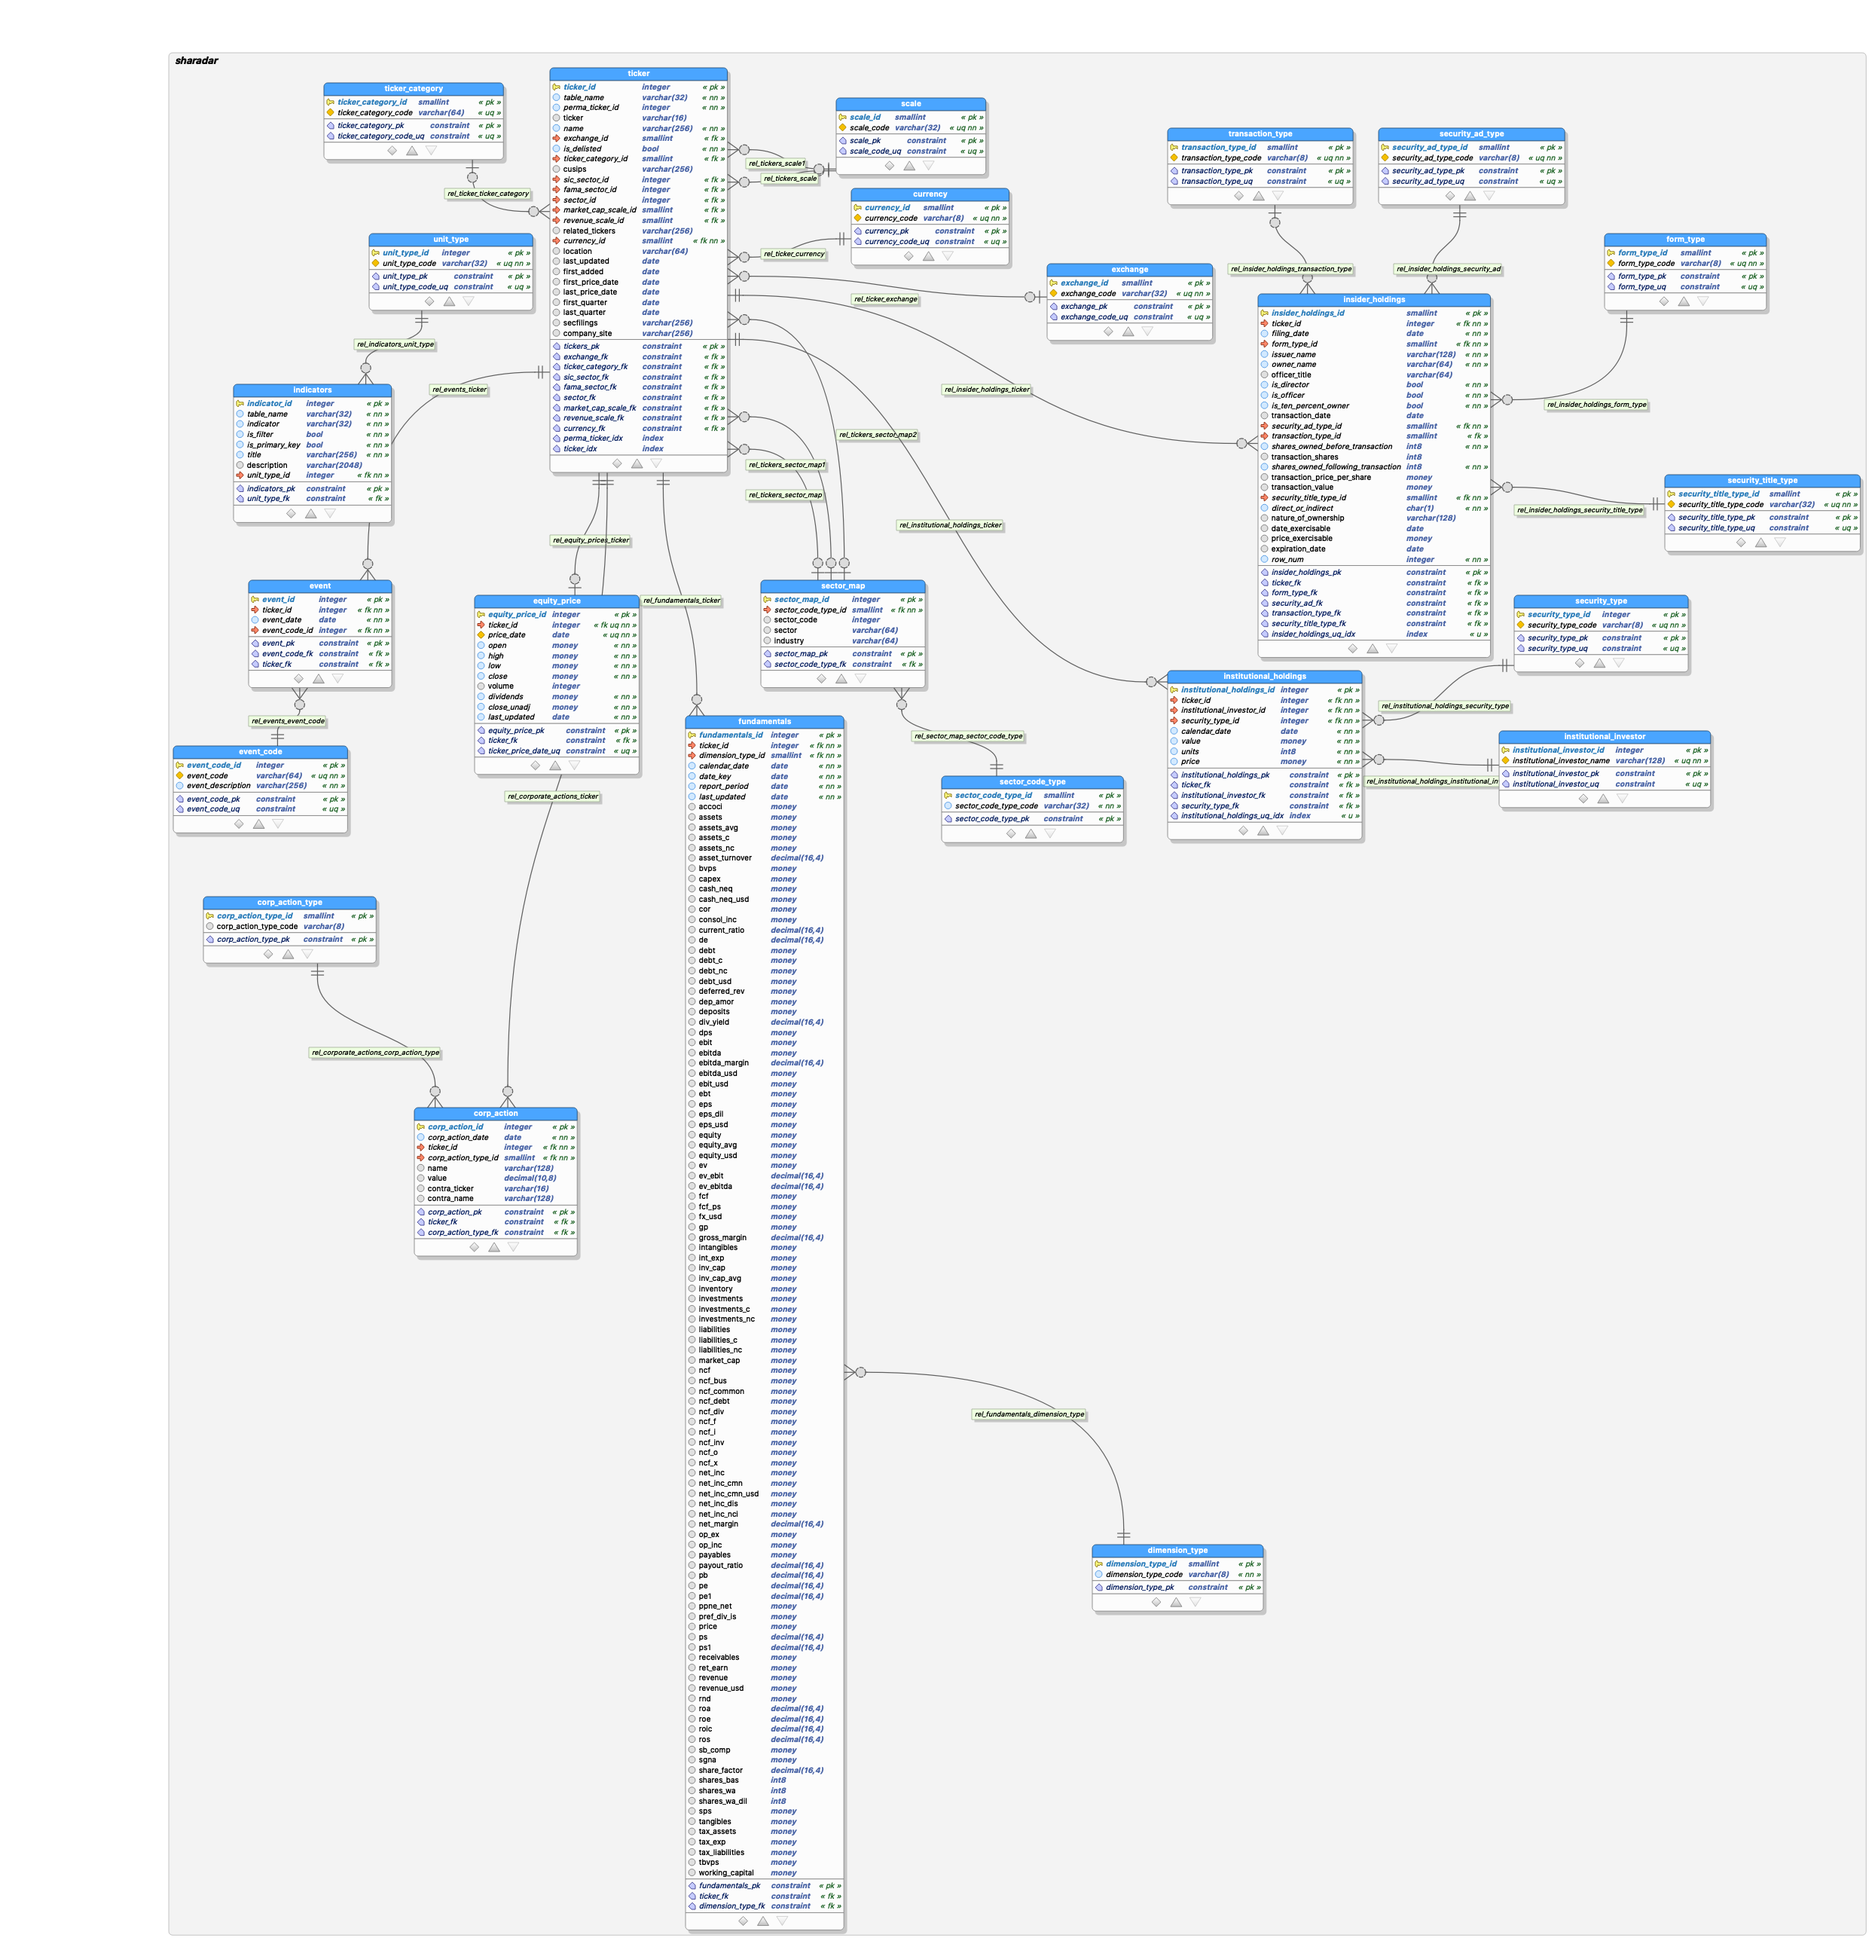
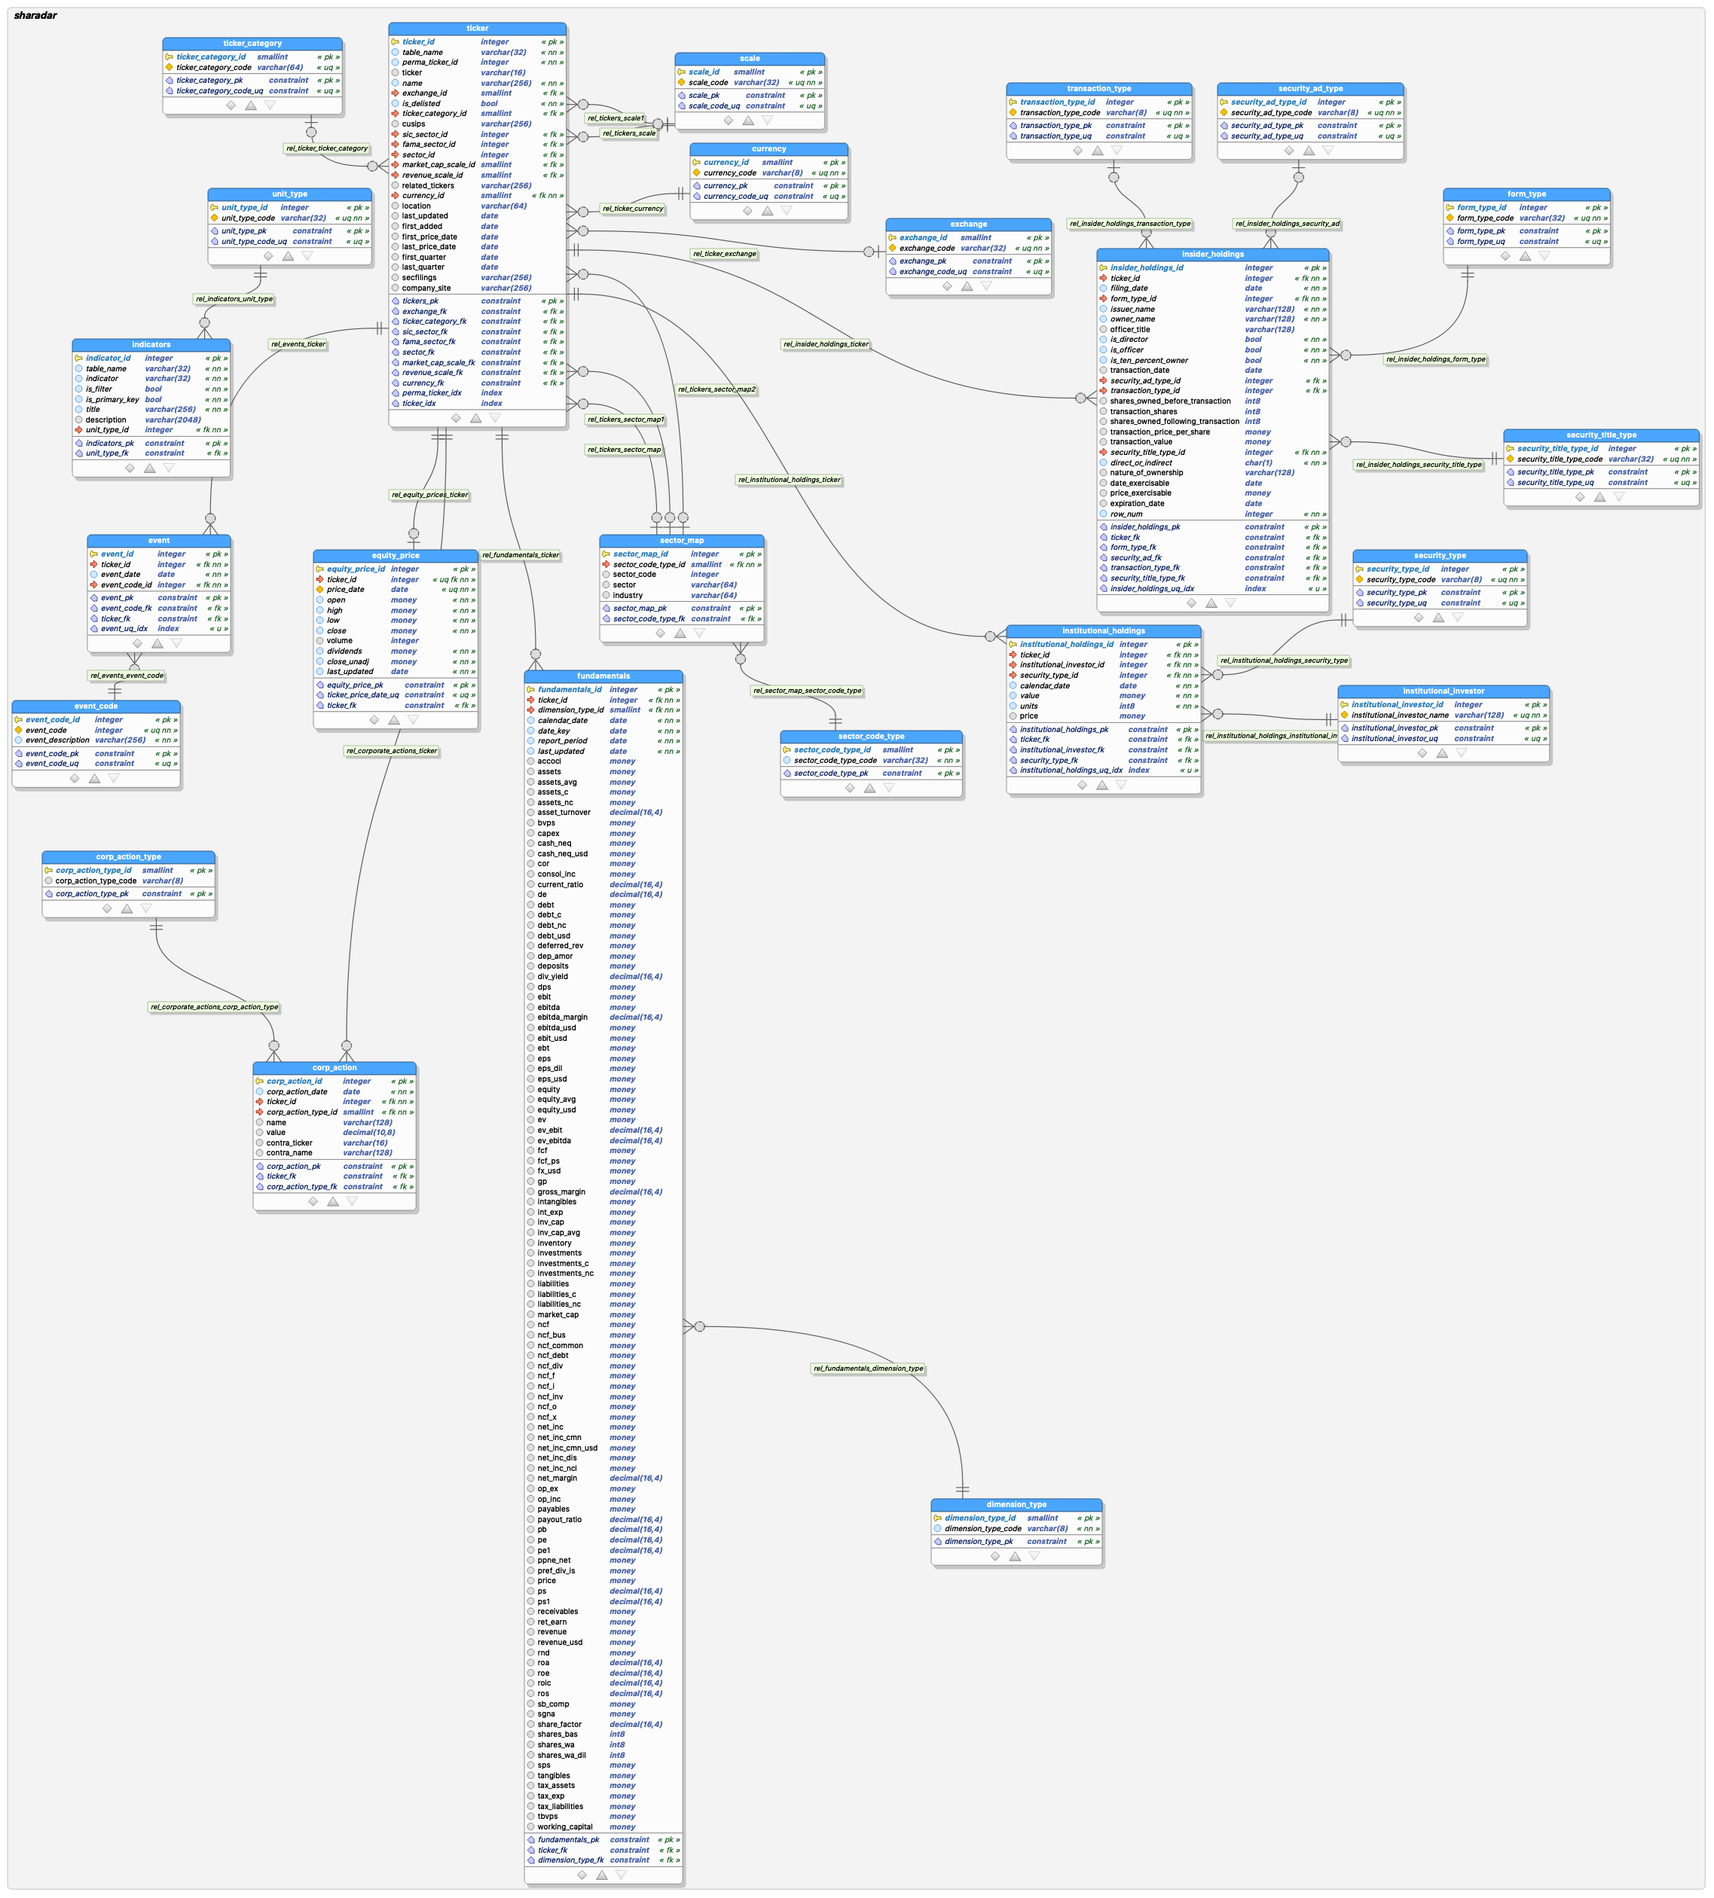
Initial commit of event calendar loader; other small fixes
AB#68

diff --git a/src/serenity/equity/sharadar_refdata.py b/src/serenity/equity/sharadar_refdata.py
@@ -1,3 +1,4 @@
+from datetime import datetime
 from typing import Optional
 
 from sqlalchemy import Column, Integer, String, Boolean, ForeignKey, Date
@@ -45,52 +46,6 @@ class Indicator(Base):
     def find_by_name(cls, session: Session, table_name: str, indicator: str):
         return session.query(Indicator).filter(Indicator.table_name == table_name,
                                                Indicator.indicator == indicator).one_or_none()
-
-
-class Ticker(Base):
-    __tablename__ = 'ticker'
-
-    ticker_id = Column(Integer, primary_key=True)
-    table_name = Column(String(32))
-    perma_ticker_id = Column(Integer)
-    ticker = Column(String(16))
-    name = Column(String(256))
-    exchange_id = Column(Integer, ForeignKey('exchange.exchange_id'))
-    exchange = relationship('Exchange', lazy='joined')
-    is_delisted = Column(Boolean)
-    ticker_category_id = Column(Integer, ForeignKey('ticker_category.ticker_category_id'))
-    ticker_category = relationship('TickerCategory', lazy='joined')
-    cusips = Column(String(256))
-    sic_sector_id = Column(Integer, ForeignKey('sector_map.sector_map_id'))
-    sic_sector = relationship('Sector', foreign_keys=sic_sector_id, lazy='joined')
-    fama_sector_id = Column(Integer, ForeignKey('sector_map.sector_map_id'))
-    fama_sector = relationship('Sector', foreign_keys=fama_sector_id, lazy='joined')
-    sector_id = Column(Integer, ForeignKey('sector_map.sector_map_id'))
-    sector = relationship('Sector', foreign_keys=sector_id, lazy='joined')
-    market_cap_scale_id = Column(Integer, ForeignKey('scale.scale_id'))
-    market_cap_scale = relationship('Scale', foreign_keys=market_cap_scale_id, lazy='joined')
-    revenue_scale_id = Column(Integer, ForeignKey('scale.scale_id'))
-    revenue_scale = relationship('Scale', foreign_keys=revenue_scale_id, lazy='joined')
-    related_tickers = Column(String(256))
-    currency_id = Column(Integer, ForeignKey('currency.currency_id'))
-    currency = relationship('Currency', lazy='joined')
-    location = Column(String(64))
-    last_updated = Column(Date)
-    first_added = Column(Date)
-    first_price_date = Column(Date)
-    last_price_date = Column(Date)
-    first_quarter = Column(Date)
-    last_quarter = Column(Date)
-    secfilings = Column(String(256))
-    company_site = Column(String(256))
-
-    @classmethod
-    def find_by_perma_id(cls, session: Session, perma_ticker_id: int):
-        return session.query(Ticker).filter(Ticker.perma_ticker_id == perma_ticker_id).one_or_none()
-
-    @classmethod
-    def find_by_ticker(cls, session: Session, ticker: str):
-        return session.query(Ticker).filter(Ticker.ticker == ticker).one_or_none()
 
 
 class Exchange(Base):
@@ -239,6 +194,93 @@ class Currency(Base):
                 ccy = Currency(currency_code=currency_code)
                 session.add(ccy)
             return ccy
+
+
+class Ticker(Base):
+    __tablename__ = 'ticker'
+
+    ticker_id = Column(Integer, primary_key=True)
+    table_name = Column(String(32))
+    perma_ticker_id = Column(Integer)
+    ticker = Column(String(16))
+    name = Column(String(256))
+    exchange_id = Column(Integer, ForeignKey('exchange.exchange_id'))
+    exchange = relationship('Exchange', lazy='joined')
+    is_delisted = Column(Boolean)
+    ticker_category_id = Column(Integer, ForeignKey('ticker_category.ticker_category_id'))
+    ticker_category = relationship('TickerCategory', lazy='joined')
+    cusips = Column(String(256))
+    sic_sector_id = Column(Integer, ForeignKey('sector_map.sector_map_id'))
+    sic_sector = relationship('Sector', foreign_keys=sic_sector_id, lazy='joined')
+    fama_sector_id = Column(Integer, ForeignKey('sector_map.sector_map_id'))
+    fama_sector = relationship('Sector', foreign_keys=fama_sector_id, lazy='joined')
+    sector_id = Column(Integer, ForeignKey('sector_map.sector_map_id'))
+    sector = relationship('Sector', foreign_keys=sector_id, lazy='joined')
+    market_cap_scale_id = Column(Integer, ForeignKey('scale.scale_id'))
+    market_cap_scale = relationship('Scale', foreign_keys=market_cap_scale_id, lazy='joined')
+    revenue_scale_id = Column(Integer, ForeignKey('scale.scale_id'))
+    revenue_scale = relationship('Scale', foreign_keys=revenue_scale_id, lazy='joined')
+    related_tickers = Column(String(256))
+    currency_id = Column(Integer, ForeignKey('currency.currency_id'))
+    currency = relationship('Currency', lazy='joined')
+    location = Column(String(64))
+    last_updated = Column(Date)
+    first_added = Column(Date)
+    first_price_date = Column(Date)
+    last_price_date = Column(Date)
+    first_quarter = Column(Date)
+    last_quarter = Column(Date)
+    secfilings = Column(String(256))
+    company_site = Column(String(256))
+
+    @classmethod
+    def find_by_perma_id(cls, session: Session, perma_ticker_id: int):
+        return session.query(Ticker).filter(Ticker.perma_ticker_id == perma_ticker_id).one_or_none()
+
+    @classmethod
+    def find_by_ticker(cls, session: Session, ticker: str):
+        return session.query(Ticker).filter(Ticker.ticker == ticker).one_or_none()
+
+
+class EventCode(Base):
+    __tablename__ = 'event_code'
+
+    event_code_id = Column(Integer, primary_key=True)
+    event_code = Column(String(64))
+    event_description = Column(String(256))
+
+    @classmethod
+    def find_by_code(cls, session: Session, event_code: int):
+        return session.query(EventCode).filter(EventCode.event_code == event_code).one_or_none()
+
+    @classmethod
+    def get_or_create(cls, session: Session, event_code: int, event_description: str):
+        if event_code is None:
+            return None
+        else:
+            ccy = EventCode.find_by_code(session, event_code)
+            if ccy is None:
+                ccy = EventCode(event_code=event_code, event_description=event_description)
+                session.add(ccy)
+            return ccy
+
+
+class Event(Base):
+    __tablename__ = 'event'
+
+    event_id = Column(Integer, primary_key=True)
+    ticker_id = Column(Integer, ForeignKey('ticker.ticker_id'))
+    ticker = relationship('Ticker', lazy='joined')
+    event_date = Column(Date)
+    event_code_id = Column(Integer, ForeignKey('event_code.event_code_id'))
+    event_code = relationship('EventCode', lazy='joined')
+
+    @classmethod
+    def find(cls, session: Session, ticker: str, event_date: datetime.date, event_code: int):
+        return session.query(Event).join(Ticker).join(EventCode).filter(Ticker.ticker == ticker,
+                                                                        Event.event_date == event_date,
+                                                                        EventCode.event_code == event_code)\
+            .one_or_none()
 
 
 def get_indicator_details(session: Session, table_name: str, indicator: str):

diff --git a/src/serenity/equity/load_sharadar_event_calendar.py b/src/serenity/equity/load_sharadar_event_calendar.py
@@ -1,11 +1,38 @@
 import fire
+import pandas as pd
+import quandl
 
 from serenity.equity.sharadar_api import init_quandl, create_sharadar_session
+from serenity.equity.sharadar_refdata import Ticker, get_indicator_details, EventCode, Event
 
 
 def load_sharadar_events():
     init_quandl()
     session = create_sharadar_session()
+    load_path = 'sharadar_events.zip'
+    quandl.export_table('SHARADAR/EVENTS', filename=load_path)
+    df = pd.read_csv(load_path)
+    row_count = 0
+    for index, row in df.iterrows():
+        ticker_code = row['ticker']
+        ticker = Ticker.find_by_ticker(session, ticker_code)
+        if ticker is None:
+            continue
+
+        event_date = row['date']
+        event_codes = row['eventcodes']
+        for event_code in event_codes.split('|'):
+            indicator = get_indicator_details(session, 'EVENTCODES', event_code)
+            event_code_entity = EventCode.get_or_create(session, int(event_code), indicator.title)
+            event = Event.find(session, ticker.ticker, event_date, int(event_code))
+            if event is None:
+                event = Event(ticker=ticker, event_date=event_date, event_code=event_code_entity)
+                session.add(event)
+
+        if row_count % 1000 == 0:
+            session.commit()
+        row_count += 1
+
     session.commit()
 
 

diff --git a/src/serenity/equity/load_sharadar_prices.py b/src/serenity/equity/load_sharadar_prices.py
@@ -11,8 +11,9 @@ def backfill_sharadar_prices():
     init_quandl()
     session = create_sharadar_session()
 
-    quandl.export_table('SHARADAR/SEP', filename='sharadar_prices.zip')
-    df = pd.read_csv('sharadar_prices.zip')
+    load_path = 'sharadar_prices.zip'
+    quandl.export_table('SHARADAR/SEP', filename=load_path)
+    df = pd.read_csv(load_path)
     row_count = 0
     for index, row in df.iterrows():
         ticker_code = row['ticker']
